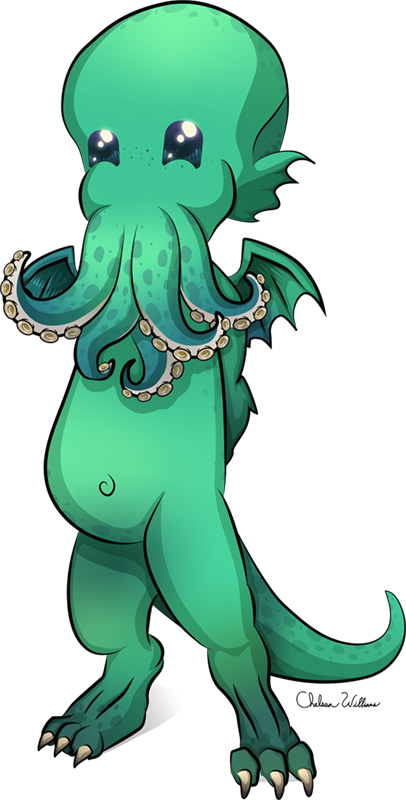
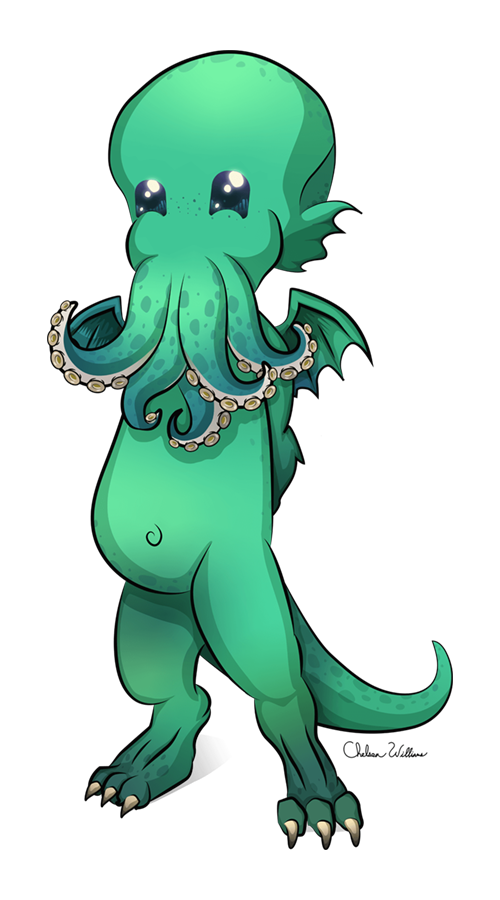
7/26 updates
Imagery updates and slider updates

diff --git a/src/pages/design-skills.js b/src/pages/design-skills.js
@@ -1,11 +1,14 @@
 import React from 'react'
 import Helmet from 'react-helmet'
 
-import Slider from '../components/Slider'
+import IllSlider from '../components/IllSlider'
+import LogoSlider from '../components/LogoSlider'
 import Layout from '../components/layout'
 import Contact from '../components/Contact'
+import WhitePaperSlider from '../components/WhitePaperSlider'
+import EBookSlider from '../components/EBookSlider'
 
-import pic01 from '../assets/images/monkey_design_illustration.jpg'
+import pic01 from '../assets/images/backpack.png'
 
 const DesignSkills = () => (
   <Layout>
@@ -22,7 +25,7 @@ const DesignSkills = () => (
         </ul>
       </div>
     </section>
-    <section id="one" className="main style1">
+    <section id="one" className="main style4">
       <div className="grid-wrapper">
         <div className="col-6">
           <header className="major">
@@ -37,7 +40,7 @@ const DesignSkills = () => (
         </div>
         <div className="col-6">
           <span className="image fit">
-            <Slider />
+            <IllSlider />
           </span>
         </div>
       </div>
@@ -47,7 +50,7 @@ const DesignSkills = () => (
       <div className="grid-wrapper">
         <div className="col-6">
           <span className="image fit">
-            <img src={pic01} alt="" />
+            <LogoSlider />
           </span>
         </div>
         <div className="col-6">
@@ -69,11 +72,11 @@ const DesignSkills = () => (
       </div>
     </section>
 
-    <section id="three" className="main style1">
+    <section id="three" className="main style3">
       <div className="grid-wrapper">
         <div className="col-6">
           <header className="major">
-            <h2>Graphic Design</h2>
+            <h2>White Paper Design</h2>
           </header>
           <p>
             Kogi truffaut pop-up chartreuse neutra keffiyeh, williamsburg venmo
@@ -84,22 +87,22 @@ const DesignSkills = () => (
         </div>
         <div className="col-6">
           <span className="image fit">
-            <img src={pic01} alt="" />
+            <WhitePaperSlider />
           </span>
         </div>
       </div>
     </section>
 
-    <section id="four" className="main style1">
+    <section id="four" className="main style4">
       <div className="grid-wrapper">
         <div className="col-6">
           <span className="image fit">
-            <img src={pic01} alt="" />
+            <EBookSlider />
           </span>
         </div>
         <div className="col-6">
           <header className="major">
-            <h2>Digital Painting and Photomanipulation</h2>
+            <h2>Ebook Design</h2>
           </header>
           <p>
             Hammock forage cred fashion axe authentic stumptown ethical vegan
@@ -112,6 +115,27 @@ const DesignSkills = () => (
             mustache pork belly vice celiac seitan mumblecore pop-up everyday
             carry trust fund forage distillery.
           </p>
+        </div>
+      </div>
+    </section>
+
+    <section id="five" className="main style1">
+      <div className="grid-wrapper">
+        <div className="col-6">
+          <header className="major">
+            <h2>Product Design</h2>
+          </header>
+          <p>
+            Kogi truffaut pop-up chartreuse neutra keffiyeh, williamsburg venmo
+            everyday carry direct trade authentic. Church-key woke bitters
+            shoreditch snackwave lumbersexual poke lo-fi taxidermy iPhone
+            actually everyday carry fingerstache.
+          </p>
+        </div>
+        <div className="col-6">
+          <span className="image fit">
+            <img src={pic01} alt="" />
+          </span>
         </div>
       </div>
     </section>

diff --git a/src/pages/code-skills.js b/src/pages/code-skills.js
@@ -108,9 +108,9 @@ const CodeSkills = () => (
 
     <section id="two" className="main style4">
       <div className="grid-wrapper">
-        <dic className="col-12 special">
-          <h2>Working Knowledge</h2>
-        </dic>
+        <div className="col-12">
+          <h2 className="align-center">Working Knowledge</h2>
+        </div>
         <div className="col-6">
           <div class="working-list">
             <ul>
@@ -134,8 +134,8 @@ const CodeSkills = () => (
 
     <section id="three" className="main style1">
       <div className="grid-wrapper">
-        <div className="col-12 special">
-          <h2>Skill Mastery</h2>
+        <div className="col-12">
+          <h2 className="align-center">Skill Mastery</h2>
           <div class="barChart">
             <svg
               version="1.1"

diff --git a/src/pages/index.js b/src/pages/index.js
@@ -106,7 +106,7 @@ class Homepage extends React.Component {
           <div className="grid-wrapper">
             <div className="col-12">
               <header className="major">
-                <h2>What I can Do</h2>
+                <h2 className="align-center">What I can Do</h2>
               </header>
             </div>
             <div className="col-4 thumbUnit">
@@ -146,7 +146,7 @@ class Homepage extends React.Component {
           <div className="grid-wrapper">
             <div className="col-12">
               <header className="major">
-                <h2>Case Studies</h2>
+                <h2 ClassName="align-center">Case Studies</h2>
               </header>
             </div>
             <div className="col-4 thumbUnit">

diff --git a/src/assets/scss/main.scss b/src/assets/scss/main.scss
@@ -96,7 +96,7 @@
 		color:_palette(fg);
 		font-size: 3em;
 		line-height: 1.35em;
-		text-align:center;
+		text-align:left;
 	}
 
 	h3 {
@@ -911,6 +911,7 @@
 
 			h2, h3, h4, h5, h6 {
 				margin: 0;
+				text-align:center;
 			}
 
 			p {
@@ -1453,7 +1454,6 @@
 		background-color: transparent;
 		border-radius: _size(border-radius);
 		border: 0;
-		box-shadow: inset 0 0 0 1px _palette(border);
 		color: _palette(fg-bold) !important;
 		cursor: pointer;
 		display: inline-block;
@@ -1726,6 +1726,13 @@
 	}
 
 /* Footer */
+
+	.footer {
+		color:#fff;
+		background-color:#444;
+		font-size:0.8em;
+		padding: 10px;
+	}
 
 	.in-touch {
 		@include padding(6em, 0, (0,0,_size(element-margin),0));

diff --git a/src/components/LogoSlider.js b/src/components/LogoSlider.js
@@ -1,0 +1,21 @@
+import AwesomeSlider from 'react-awesome-slider'
+import 'react-awesome-slider/dist/styles.css'
+
+import React from 'react'
+import pic01 from '../assets/images/porter_construction_logo.jpg'
+import pic02 from '../assets/images/radio_logo.jpg'
+import pic03 from '../assets/images/housed_working_healthy_logo.jpg'
+
+class LogoSlider extends React.Component {
+  render() {
+    return (
+      <AwesomeSlider>
+        <div data-src={pic02} />
+        <div data-src={pic01} />
+        <div data-src={pic03} />
+      </AwesomeSlider>
+    )
+  }
+}
+
+export default LogoSlider

diff --git a/src/components/ArtSlider.js b/src/components/ArtSlider.js
@@ -1,0 +1,21 @@
+import AwesomeSlider from 'react-awesome-slider'
+import 'react-awesome-slider/dist/styles.css'
+
+import React from 'react'
+import pic01 from '../assets/images/porter_construction_logo.jpg'
+import pic02 from '../assets/images/radio_logo.jpg'
+import pic03 from '../assets/images/housed_working_healthy_logo.jpg'
+
+class ArtSlider extends React.Component {
+  render() {
+    return (
+      <AwesomeSlider>
+        <div data-src={pic02} />
+        <div data-src={pic01} />
+        <div data-src={pic03} />
+      </AwesomeSlider>
+    )
+  }
+}
+
+export default ArtSlider

diff --git a/src/components/EBookSlider.js b/src/components/EBookSlider.js
@@ -1,0 +1,21 @@
+import AwesomeSlider from 'react-awesome-slider'
+import 'react-awesome-slider/dist/styles.css'
+
+import React from 'react'
+import pic01 from '../assets/images/anexinet_ebook_1.png'
+import pic02 from '../assets/images/anexinet_ebook_2.png'
+import pic03 from '../assets/images/anexinet_ebook_3.png'
+
+class EBookSlider extends React.Component {
+  render() {
+    return (
+      <AwesomeSlider>
+        <div data-src={pic01} />
+        <div data-src={pic02} />
+        <div data-src={pic03} />
+      </AwesomeSlider>
+    )
+  }
+}
+
+export default EBookSlider

diff --git a/src/components/WhitePaperSlider.js b/src/components/WhitePaperSlider.js
@@ -1,0 +1,19 @@
+import AwesomeSlider from 'react-awesome-slider'
+import 'react-awesome-slider/dist/styles.css'
+
+import React from 'react'
+import pic01 from '../assets/images/ECS_white_paper.png'
+import pic02 from '../assets/images/Inteq_white_paper.png'
+
+class WhitePaperSlider extends React.Component {
+  render() {
+    return (
+      <AwesomeSlider>
+        <div data-src={pic01} />
+        <div data-src={pic02} />
+      </AwesomeSlider>
+    )
+  }
+}
+
+export default WhitePaperSlider

diff --git a/src/components/IllSlider.js b/src/components/IllSlider.js
@@ -1,0 +1,19 @@
+import AwesomeSlider from 'react-awesome-slider'
+import 'react-awesome-slider/dist/styles.css'
+
+import React from 'react'
+import pic01 from '../assets/images/cthulu_illustration.png'
+import pic02 from '../assets/images/lil_death_illustration.png'
+
+class IllSlider extends React.Component {
+  render() {
+    return (
+      <AwesomeSlider>
+        <div data-src={pic01} />
+        <div data-src={pic02} />
+      </AwesomeSlider>
+    )
+  }
+}
+
+export default IllSlider

diff --git a/src/components/Footer.js b/src/components/Footer.js
@@ -4,7 +4,7 @@ class Footer extends React.Component {
   render() {
     return (
       <section id="footer" class="footer special">
-        <p>&copy; Chelsea Williams 2019</p>
+        &copy; Chelsea Williams 2019
       </section>
     )
   }
